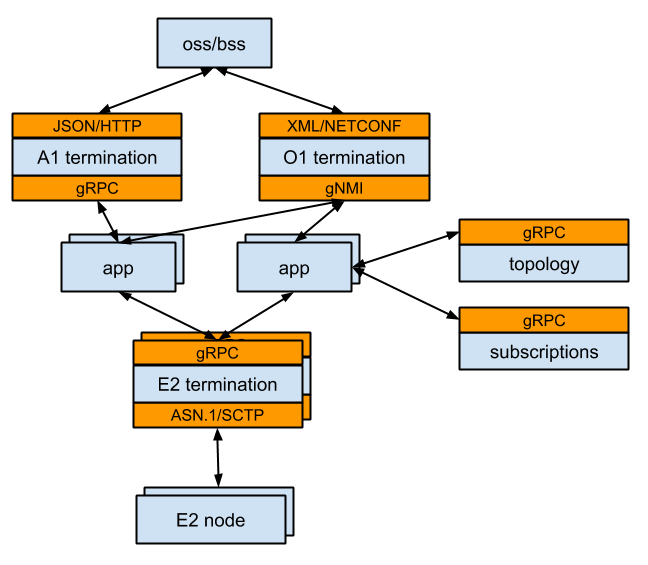
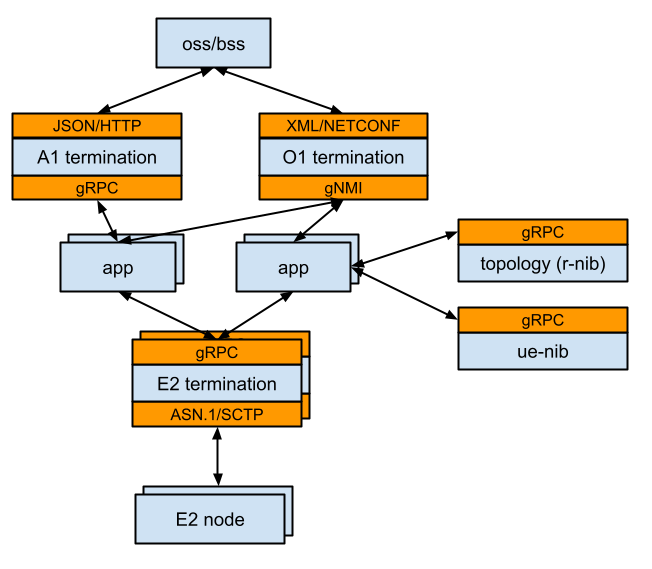
Updating nav tree, architecture diagram, adding uenib (#33)
* Updating nav tree, architecture diagram, adding uenib

* Adding exclusion for onos-exporter repo

* Added ran-simulator to the excludes

* Added uenib to the excludes

* Adding OI repo to excludes

* Adding topo repo to excludes

Changed region(s): [[0.0, 0.0301, 0.679, 0.9628], [0.5864, 0.3611, 0.9877, 0.6619], [0.6173, 0.5115, 0.6481, 0.5416]]

diff --git a/conf.py b/conf.py
@@ -251,9 +251,14 @@ linkcheck_ignore = [r'https://www.digikey.com',
                     'https://github.com/onosproject/onos-e2t',
                     'https://github.com/onosproject/onos-e2sub',
                     'https://github.com/onosproject/onos-pci',
+                    'https://github.com/onosproject/onos-topo',
+                    'https://github.com/onosproject/onos-uenib',
                     'https://github.com/onosproject/sdran-helm-charts',
                     'http://localhost:6060/pkg/github.com/onosproject/onos-config/',
                     'https://github.com/openconfig/reference/blob/master/rpc/gnmi/gnmi-path-conventions.md#wildcards-in-paths',
+                    'https://github.com/onosproject/onos-exporter',
+                    'https://github.com/onosproject/ran-simulator',
+                    'https://github.com/OPENAIRINTERFACE/openair-cn',
                    ]
 
 # -- options for Intersphinx extension ---------------------------------------

diff --git a/architecture.md b/architecture.md
@@ -47,11 +47,10 @@ handling individual connections to E2T nodes in order to be able to receive E2 i
 ## Current Components
 The initial version of SD-RAN platform instantiates the above elements of the architecture as follows:
 
-* E2 Termination - implemented via `onos-e2t`
+* E2 Termination - implemented via `onos-e2t`, tracks E2 node connections and manages subscriptions
 * A1 Termination - not implemented yet
 * O1 Termination - partially implemented via `onos-config` and gNMI, rather than via NETCONF
-* E2 Subscription Management - implemented via `onos-e2sub`
-* R-NIB Service - backed by `onos-topo`
-* UE-NIB Service - initial implementation relies on apps to maintain their inventory of UEs
+* R-NIB Service - implemented by the `onos-topo` subsystem using entity/relation scheme and is extensible using information "aspects"
+* UE-NIB Service - implemented by the `onos-uenib` subsystem, supports high read/write rates and is extensible using information "aspects" 
 * Storage Facilities - backed by `atomix` and related libraries
 

diff --git a/index.rst b/index.rst
@@ -32,11 +32,11 @@ can be found on the `ONF Wiki <https://wiki.opennetworking.org/>`_.
    onos-operator/README
    onos-e2t/README
    onos-e2-sm/README
-   onos-e2sub/README
    onos-kpimon/README
    onos-pci/README
    onos-config/README
    onos-topo/README
+   onos-uenib/README
    onos-cli/README
    ran-simulator/README
    oai_cu_cp
